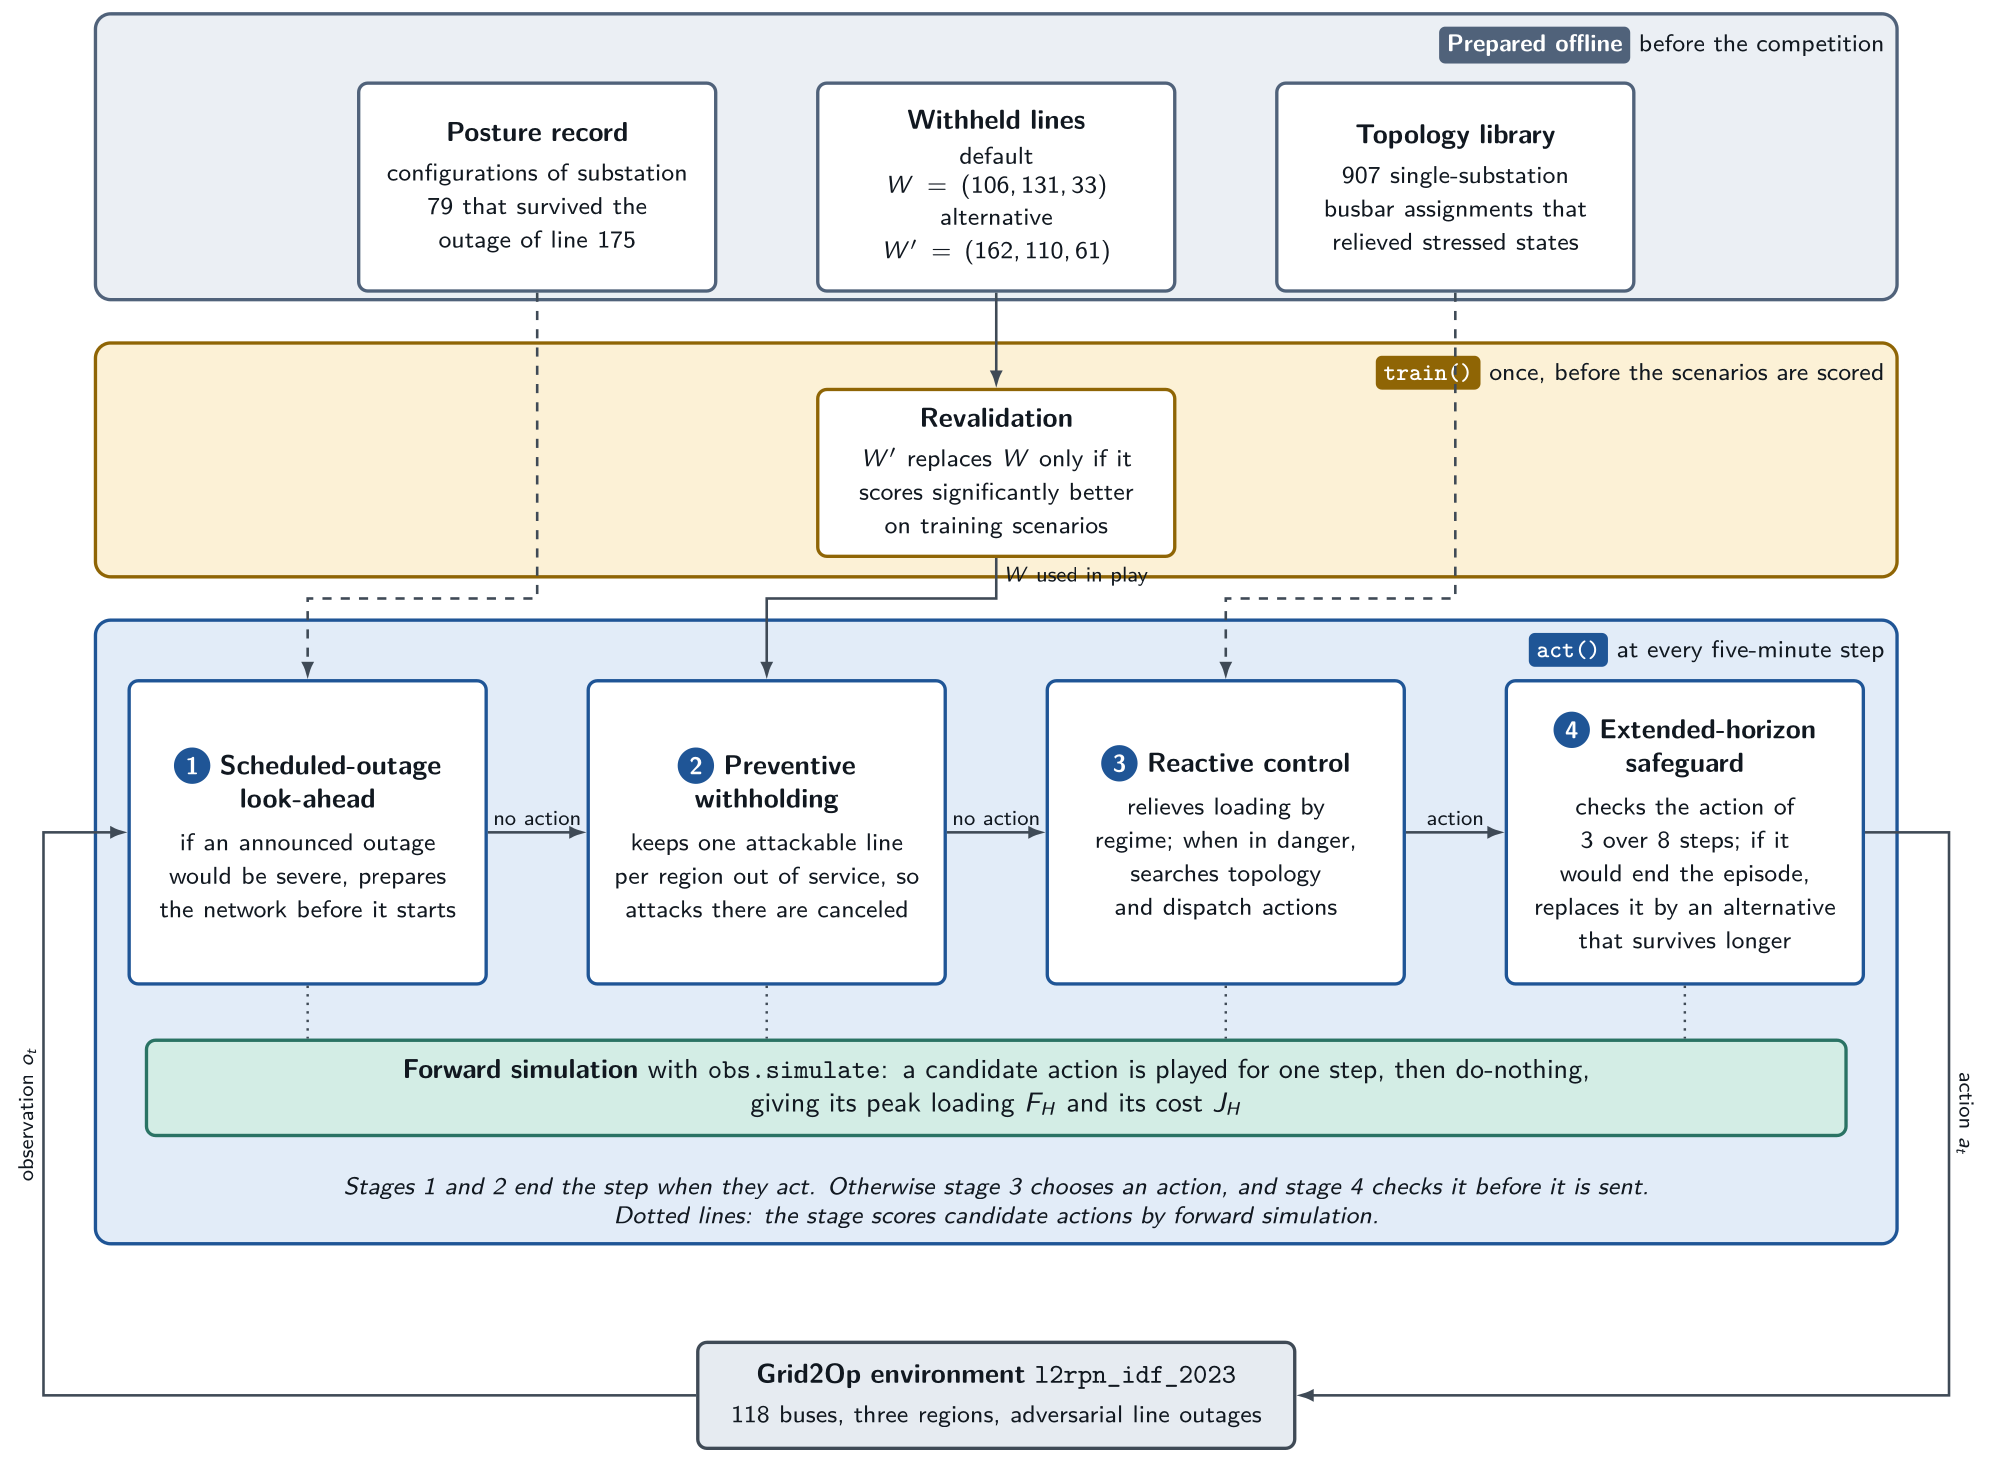
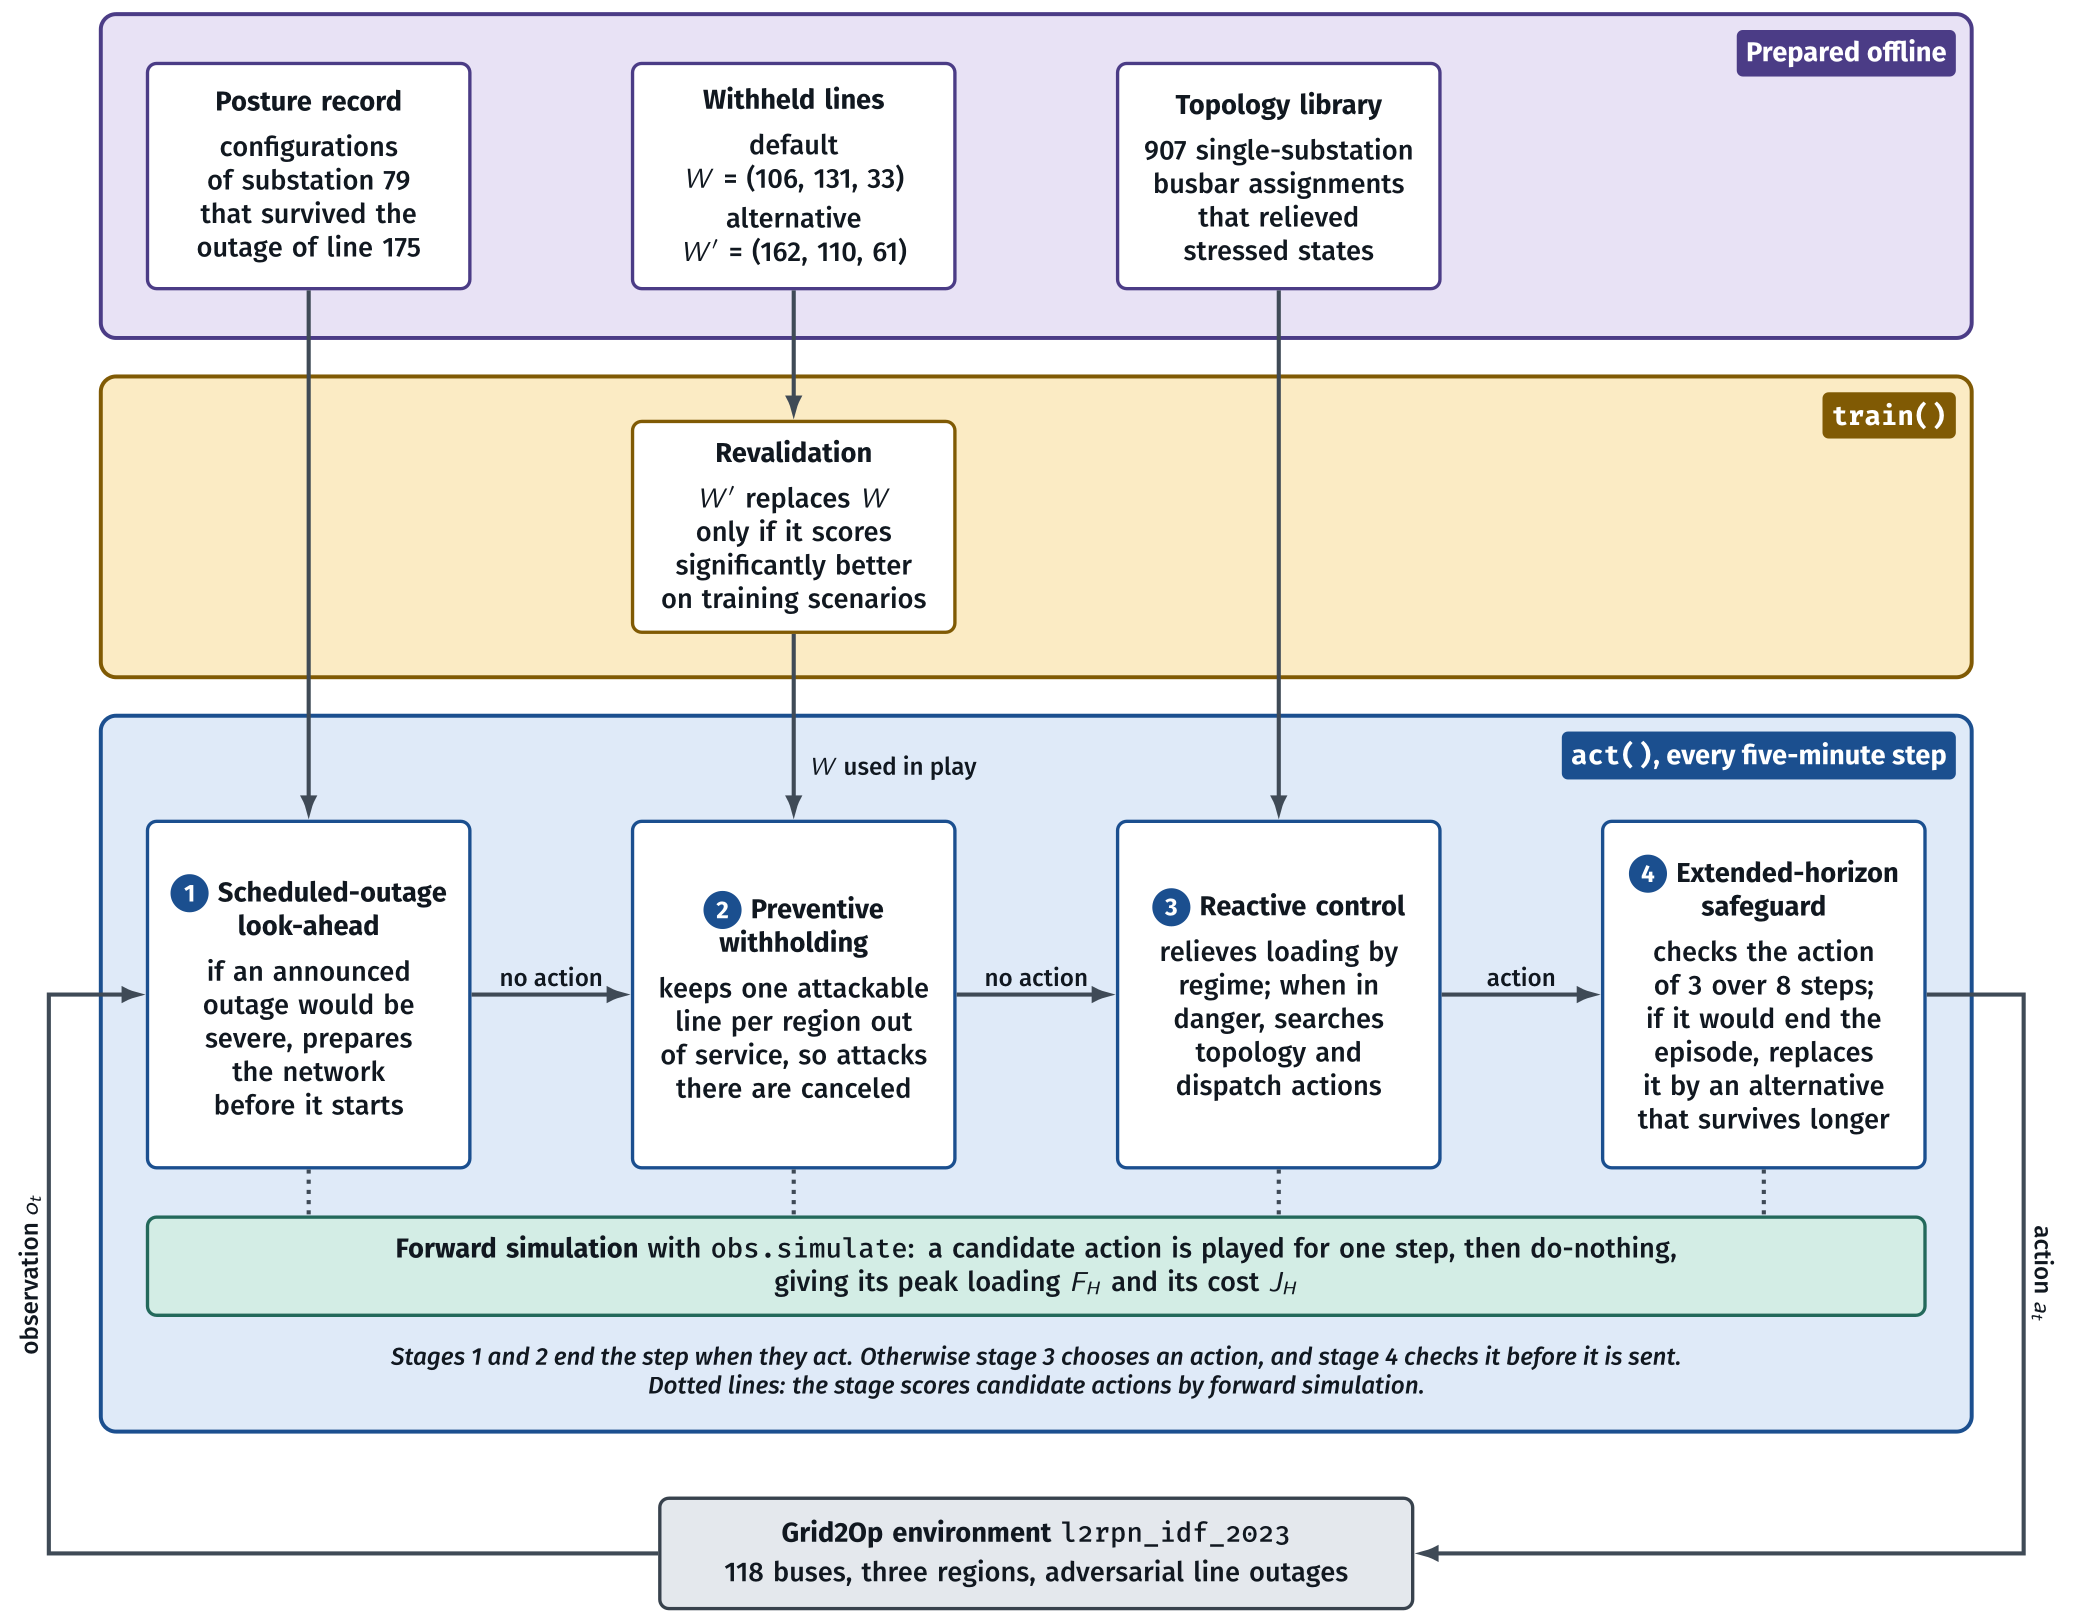
Nicer overview figure

diff --git a/docs/figures/src/architecture.tex b/docs/figures/src/architecture.tex
@@ -1,75 +1,93 @@
 \input{style}
+% Fira Sans has heavier strokes than Latin Modern Sans and stays legible at README width; lining figures
+% keep digits on the baseline.
+\usepackage[sfdefault, lining]{FiraSans}
+\usepackage{FiraMono}
+\usetikzlibrary{backgrounds}
 \begin{document}
-% Overview of the agent on its three time scales: inputs prepared offline, the revalidation done once
-% by train(), and the four stages that act() consults at every step. The environment sits below the
-% agent so that the observation and the action close one loop around act().
-% Each time scale has its own light tint; boxes are left white so that the text stays legible.
+% Overview of the agent in three lanes: the inputs prepared offline, the revalidation done by train(),
+% and the four stages that act() runs at every step. Each input sits in the column of the stage that
+% uses it, so every connector between lanes is a straight vertical line. The environment sits below
+% the agent, so that the observation and the action close one loop around act().
 \ifdefined\darktheme
   \definecolor{offband}{HTML}{151B23}\definecolor{offedge}{HTML}{8696AD}
   \definecolor{trband}{HTML}{211B0F}\definecolor{tredge}{HTML}{D4A72C}
   \definecolor{actband}{HTML}{0F1B2B}\definecolor{actedge}{HTML}{4C8EDA}
   \definecolor{simfill}{HTML}{0F2420}\definecolor{simedge}{HTML}{4FB3A0}
   \definecolor{envfill}{HTML}{151B23}\definecolor{envedge}{HTML}{8B949E}
-  % On a dark page the tinted bands stand out by themselves, so they carry no outline.
+  % On a dark page the tinted bands stand out by themselves, so they carry no outline, and light text
+  % already reads heavy, so the regular weight is kept.
   \newcommand{\bandframe}[3]{\fill[#1, rounded corners=5pt] #3;}
-  \newcommand{\lanetag}[2]{\textcolor{#1}{\textbf{#2}},}
+  \newcommand{\lanetag}[2]{\textcolor{#1}{\textbf{#2}}}
+  \newcommand{\bodyweight}{}
+  \def\lwconn{1.0pt}
 \else
-  \definecolor{offband}{HTML}{EBEFF4}\definecolor{offedge}{HTML}{50627A}
-  \definecolor{trband}{HTML}{FCF1D6}\definecolor{tredge}{HTML}{8F6505}
-  \definecolor{actband}{HTML}{E2ECF8}\definecolor{actedge}{HTML}{1F5596}
-  \definecolor{simfill}{HTML}{D3EDE5}\definecolor{simedge}{HTML}{2A7364}
-  \definecolor{envfill}{HTML}{E6EBF1}\definecolor{envedge}{HTML}{3F4A56}
+  \definecolor{offband}{HTML}{E8E2F5}\definecolor{offedge}{HTML}{4B3C86}
+  \definecolor{trband}{HTML}{FBEBC4}\definecolor{tredge}{HTML}{805A04}
+  \definecolor{actband}{HTML}{DFEAF8}\definecolor{actedge}{HTML}{1B4F8F}
+  \definecolor{simfill}{HTML}{D3EDE5}\definecolor{simedge}{HTML}{23695B}
+  \definecolor{envfill}{HTML}{E4E8ED}\definecolor{envedge}{HTML}{38424D}
   % On a white page a pale tint alone does not delimit a band: each band gets an outline in its lane
-  % color, and each lane name is set as a solid tag in that color.
-  \newcommand{\bandframe}[3]{\filldraw[fill=#1, draw=#2, line width=1.1pt, rounded corners=5pt] #3;}
+  % color, each lane name is set as a solid tag in that color, and text uses the medium weight so that
+  % it reads as dark as the light text of the dark theme.
+  \newcommand{\bandframe}[3]{\filldraw[fill=#1, draw=#2, line width=1.3pt, rounded corners=5pt] #3;}
   \newcommand{\lanetag}[2]{\tikz[baseline=(t.base)]\node[fill=#1, text=white, rounded corners=2pt,
-    inner sep=2.5pt, font=\footnotesize\bfseries] (t) {#2};}
+    inner sep=3pt, font=\small\bfseries] (t) {#2};}
+  \newcommand{\bodyweight}{\fontseries{medium}\selectfont}
+  \def\lwconn{1.35pt}
 \fi
 \tikzset{
   abox/.style={draw=#1, fill=paper, rounded corners=3pt, line width=\lwstage, align=center,
-               inner sep=6pt, text width=3.7cm, text=ink},
-  bandlab/.style={font=\footnotesize, anchor=north east, inner sep=4pt, text=ink},
-  alab/.style={font=\scriptsize, text=ink, inner sep=2pt},
+               inner sep=6pt, text width=3.3cm, text=ink, font=\small},
+  bandlab/.style={font=\small, anchor=north east, inner sep=5pt, text=ink},
+  alab/.style={font=\footnotesize, text=ink, inner sep=2pt},
+  conn/.style={-{Latex[length=2.8mm, width=2mm]}, line width=\lwconn, draw=edge},
 }
 \newcommand{\astg}[1]{\tikz[baseline=(b.base)]\node[circle, fill=actedge, text=paper, inner sep=0pt,
-  minimum size=4.2mm, font=\footnotesize\bfseries] (b) {#1};}
-\begin{tikzpicture}
-% bands
-\bandframe{offband}{offedge}{(-2.45,6.15) rectangle (18.35,9.45)}
-\bandframe{trband}{tredge}{(-2.45,2.95) rectangle (18.35,5.65)}
-\bandframe{actband}{actedge}{(-2.45,-4.75) rectangle (18.35,2.45)}
-\node[bandlab] at (18.35,9.45) {\lanetag{offedge}{Prepared offline}\ before the competition};
-\node[bandlab] at (18.35,5.65) {\lanetag{tredge}{\texttt{train()}}\ once, before the scenarios are scored};
-\node[bandlab] at (18.35,2.45) {\lanetag{actedge}{\texttt{act()}}\ at every five-minute step};
-% offline inputs
-\node[abox=offedge, minimum height=24mm] (rec) at (2.65,7.45) {\textbf{Posture record}\\[2pt]\footnotesize configurations of substation 79 that survived the outage of line 175};
-\node[abox=offedge, minimum height=24mm] (wset) at (7.95,7.45) {\textbf{Withheld lines}\\[2pt]\footnotesize default\\$W=(106,131,33)$\\[1pt]alternative\\$W'=(162,110,61)$};
-\node[abox=offedge, minimum height=24mm] (lib) at (13.25,7.45) {\textbf{Topology library}\\[2pt]\footnotesize 907 single-substation busbar assignments that relieved stressed states};
-% train()
-\node[abox=tredge, minimum height=15mm] (rev) at (7.95,4.15) {\textbf{Revalidation}\\[2pt]\footnotesize $W'$ replaces $W$ only if it scores significantly better on training scenarios};
+  minimum size=4.4mm, font=\footnotesize\bfseries] (b) {#1};}
+\begin{tikzpicture}[execute at begin picture=\bodyweight]
+% One column per stage of act(), 5.6 cm apart; L and R are the band edges, LL and RR carry the loop.
+\coordinate (L) at (-2.4,0);  \coordinate (R) at (19.2,0);
+\coordinate (LL) at (-3.0,0); \coordinate (RR) at (19.8,0);
 % act() stages
-\node[abox=actedge, minimum height=35mm] (s1) at (0,0.0) {\astg{1}\ \textbf{Scheduled-outage look-ahead}\\[3pt]\footnotesize if an announced outage would be severe, prepares the network before it starts};
-\node[abox=actedge, minimum height=35mm] (s2) at (5.3,0.0) {\astg{2}\ \textbf{Preventive withholding}\\[3pt]\footnotesize keeps one attackable line per region out of service, so attacks there are canceled};
-\node[abox=actedge, minimum height=35mm] (s3) at (10.6,0.0) {\astg{3}\ \textbf{Reactive control}\\[3pt]\footnotesize relieves loading by regime; when in danger, searches topology and dispatch actions};
-\node[abox=actedge, minimum height=35mm] (s4) at (15.9,0.0) {\astg{4}\ \textbf{Extended-horizon safeguard}\\[3pt]\footnotesize checks the action of 3 over 8 steps; if it would end the episode, replaces it by an alternative that survives longer};
+\node[abox=actedge, minimum height=40mm] (s1) at (0,0) {\astg{1}\ \textbf{Scheduled-outage look-ahead}\\[4pt]if an announced outage would be severe, prepares the network before it starts};
+\node[abox=actedge, minimum height=40mm] (s2) at (5.6,0) {\astg{2}\ \textbf{Preventive withholding}\\[4pt]keeps one attackable line per region out of service, so attacks there are canceled};
+\node[abox=actedge, minimum height=40mm] (s3) at (11.2,0) {\astg{3}\ \textbf{Reactive control}\\[4pt]relieves loading by regime; when in danger, searches topology and dispatch actions};
+\node[abox=actedge, minimum height=40mm] (s4) at (16.8,0) {\astg{4}\ \textbf{Extended-horizon safeguard}\\[4pt]checks the action of 3 over 8 steps; if it would end the episode, replaces it by an alternative that survives longer};
 \node[draw=simedge, fill=simfill, rounded corners=3pt, line width=\lwstage, align=center, inner sep=6pt,
-      text width=19.2cm, text=ink, minimum height=11mm] (ev) at (7.95,-2.95) {\textbf{Forward simulation} with \texttt{obs.simulate}: a candidate action is played for one step, then do-nothing,\\giving its peak loading $F_H$ and its cost $J_H$};
-\node[font=\footnotesize\itshape, text=ink, anchor=south, inner sep=5pt, align=center] at (7.95,-4.75) {Stages 1 and 2 end the step when they act. Otherwise stage 3 chooses an action, and stage 4 checks it before it is sent.\\Dotted lines: the stage scores candidate actions by forward simulation.};
+      text width=20.1cm, text=ink, font=\small, anchor=north] (ev) at (8.4,-2.55) {\textbf{Forward simulation} with \texttt{obs.simulate}: a candidate action is played for one step, then do-nothing,\\giving its peak loading $F_H$ and its cost $J_H$};
+\node[font=\footnotesize\itshape, text=ink, anchor=north, inner sep=2pt, align=center] (note) at ($(ev.south)+(0,-0.25)$) {Stages 1 and 2 end the step when they act. Otherwise stage 3 chooses an action, and stage 4 checks it before it is sent.\\Dotted lines: the stage scores candidate actions by forward simulation.};
+% train(), in the column of stage 2
+\node[abox=tredge, minimum height=24mm] (rev) at (5.6,5.4) {\textbf{Revalidation}\\[4pt]$W'$ replaces $W$ only if it scores significantly better on training scenarios};
+% offline inputs, each in the column of the stage that uses it
+\node[abox=offedge, minimum height=26mm] (rec) at (0,9.45) {\textbf{Posture record}\\[4pt]configurations of substation 79 that survived the outage of line 175};
+\node[abox=offedge, minimum height=26mm] (wset) at (5.6,9.45) {\textbf{Withheld lines}\\[4pt]default\\$W$ = (106, 131, 33)\\[2pt]alternative\\$W'$ = (162, 110, 61)};
+\node[abox=offedge, minimum height=26mm] (lib) at (11.2,9.45) {\textbf{Topology library}\\[4pt]907 single-substation busbar assignments that relieved stressed states};
+% lanes, drawn behind the boxes with equal margins above and below their content
+\begin{scope}[on background layer]
+\bandframe{offband}{offedge}{($(L|-rec.north)+(0,0.55)$) rectangle ($(R|-rec.south)+(0,-0.55)$)}
+\bandframe{trband}{tredge}{($(L|-rev.north)+(0,0.5)$) rectangle ($(R|-rev.south)+(0,-0.5)$)}
+\bandframe{actband}{actedge}{($(L|-s1.north)+(0,1.2)$) rectangle ($(R|-note.south)+(0,-0.3)$)}
+\end{scope}
+\node[bandlab] at ($(R|-rec.north)+(0,0.55)$) {\lanetag{offedge}{Prepared offline}};
+\node[bandlab] at ($(R|-rev.north)+(0,0.5)$) {\lanetag{tredge}{\texttt{train()}}};
+\node[bandlab] at ($(R|-s1.north)+(0,1.2)$) {\lanetag{actedge}{\texttt{act()}, every five-minute step}};
 % environment, below the agent
 \node[draw=envedge, fill=envfill, rounded corners=3pt, line width=\lwstage, align=center, inner sep=7pt,
-      text width=6.4cm, text=ink] (env) at (7.95,-6.5) {\textbf{Grid2Op environment} \texttt{l2rpn\_idf\_2023}\\[2pt]\footnotesize 118 buses, three regions, adversarial line outages};
+      text width=8.2cm, text=ink, font=\small, anchor=north] (env) at ($(note.south)+(0,-1.05)$) {\textbf{Grid2Op environment} \texttt{l2rpn\_idf\_2023}\\[2pt]118 buses, three regions, adversarial line outages};
 % arrows between the stages
-\draw[arr] (s1.east)--node[alab,above]{no action}(s2.west);
-\draw[arr] (s2.east)--node[alab,above]{no action}(s3.west);
-\draw[arr] (s3.east)--node[alab,above]{action}(s4.west);
-\foreach \s in {s1,s2,s3,s4}{\draw[draw=edge, dotted, thick] (\s.south)--(\s.south|-ev.north);}
-% inputs feeding the stages
-\draw[darr] (rec.south)--(2.65,2.7)--(0,2.7)--(s1.north);
-\draw[arr] (wset.south)--(rev.north);
-\draw[arr] (rev.south)--node[alab,right,pos=0.45]{$W$ used in play}(7.95,2.7)--(5.3,2.7)--(s2.north);
-\draw[darr] (lib.south)--(13.25,2.7)--(10.6,2.7)--(s3.north);
+\draw[conn] (s1.east)--node[alab,above]{no action}(s2.west);
+\draw[conn] (s2.east)--node[alab,above]{no action}(s3.west);
+\draw[conn] (s3.east)--node[alab,above]{action}(s4.west);
+\foreach \s in {s1,s2,s3,s4}{\draw[draw=edge, dotted, line width=\lwconn] (\s.south)--(\s.south|-ev.north);}
+% inputs feeding the stages, all vertical
+\draw[conn] (rec.south)--(s1.north);
+\draw[conn] (wset.south)--(rev.north);
+\draw[conn] (rev.south)--(s2.north);
+\node[alab, anchor=west] at ($(s2.north)+(0.1,0.6)$) {$W$ used in play};
+\draw[conn] (lib.south)--(s3.north);
 % loop with the environment
-\draw[arr] (env.west)--(-3.05,-6.5)--node[alab,above,rotate=90]{observation $o_t$}(-3.05,0.0)--(s1.west);
-\draw[arr] (s4.east)--(18.95,0.0)--node[alab,above,rotate=-90]{action $a_t$}(18.95,-6.5)--(env.east);
+\draw[conn] (env.west)--(env.west-|LL)--node[alab,above,rotate=90]{observation $o_t$}(LL)--(s1.west);
+\draw[conn] (s4.east)--(RR)--node[alab,above,rotate=-90]{action $a_t$}(env.east-|RR)--(env.east);
 \end{tikzpicture}
 \end{document}

diff --git a/docs/how_the_agent_works.md b/docs/how_the_agent_works.md
@@ -37,12 +37,12 @@ processing. The TikZ sources of all figures are in [`figures/src`](figures/src) 
 </picture>
 </p>
 
-The agent works on three time scales. Before the competition, three inputs were prepared offline: a
-library of single-substation busbar assignments that relieved stressed states, a record of substation
-configurations that survived the scheduled outage of line 175, and a set of withheld lines with one
-alternative. Once before the scenarios are scored, `train()` tests whether the alternative should
-replace the default set. At every five-minute step, `act()` consults four stages in a fixed order, and
-every stage that compares candidates uses the same forward simulation ([§2](#2-how-every-candidate-is-scored)).
+The agent works on three time scales. Three inputs are prepared offline: a record of substation
+configurations that survived the scheduled outage of line 175, a set of withheld lines with one
+alternative, and a library of single-substation busbar assignments that relieved stressed states.
+`train()` runs once, before evaluation, and tests whether the alternative should replace the default
+set. At every five-minute step, `act()` consults four stages in a fixed order, and every stage that
+compares candidates uses the same forward simulation ([§2](#2-how-every-candidate-is-scored)).
 
 ## 1. One step of `act()`
 

diff --git a/README.md b/README.md
@@ -43,7 +43,7 @@ The controller combines six components, each of which can be studied or reused o
 
 ## Results
 
-In the competition, the agent was evaluated on two sets of 208 scenarios not available during development:
+In the competition, the agent was evaluated on two sets of 208 unseen scenarios:
 
 | | completed | score | operations | low-carbon | total agent time |
 |---|---|---|---|---|---|
